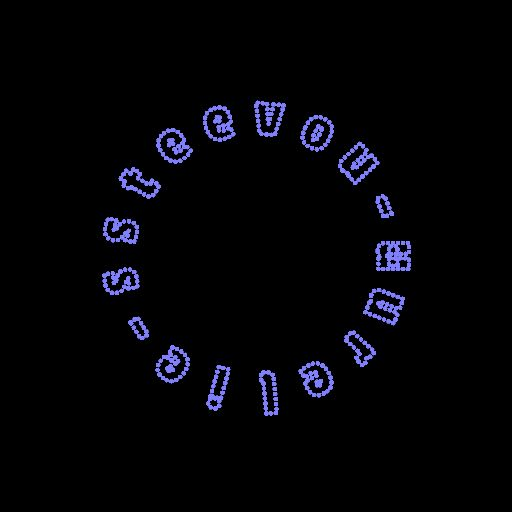
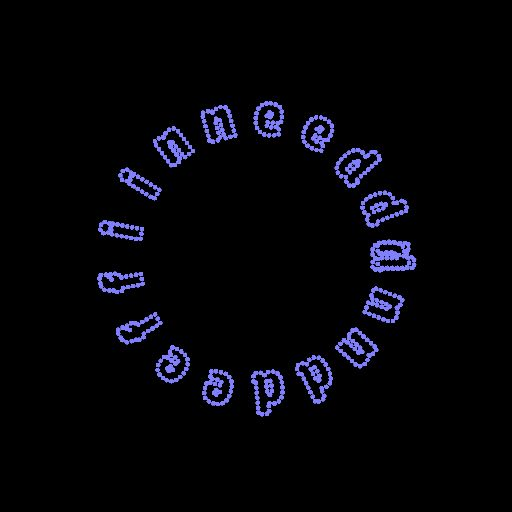
aurelio

diff --git a/sketches/alphabet-scroll/alphabet-scroll-v9-alphabet-circular-aurelio/index.js b/sketches/alphabet-scroll/alphabet-scroll-v9-alphabet-circular-aurelio/index.js
@@ -4,7 +4,7 @@ sketch.setup( undefined, { type: "webgl" } );
 
 let alphabet = Array(26).fill(undefined).map((_, index) => String.fromCharCode(index + 'a'.charCodeAt(0)))
 
-alphabet = "aurelie-steevou-".split("")
+alphabet = "undefined".split("")
 
 function drawCircle({
   angleCount = 12,
